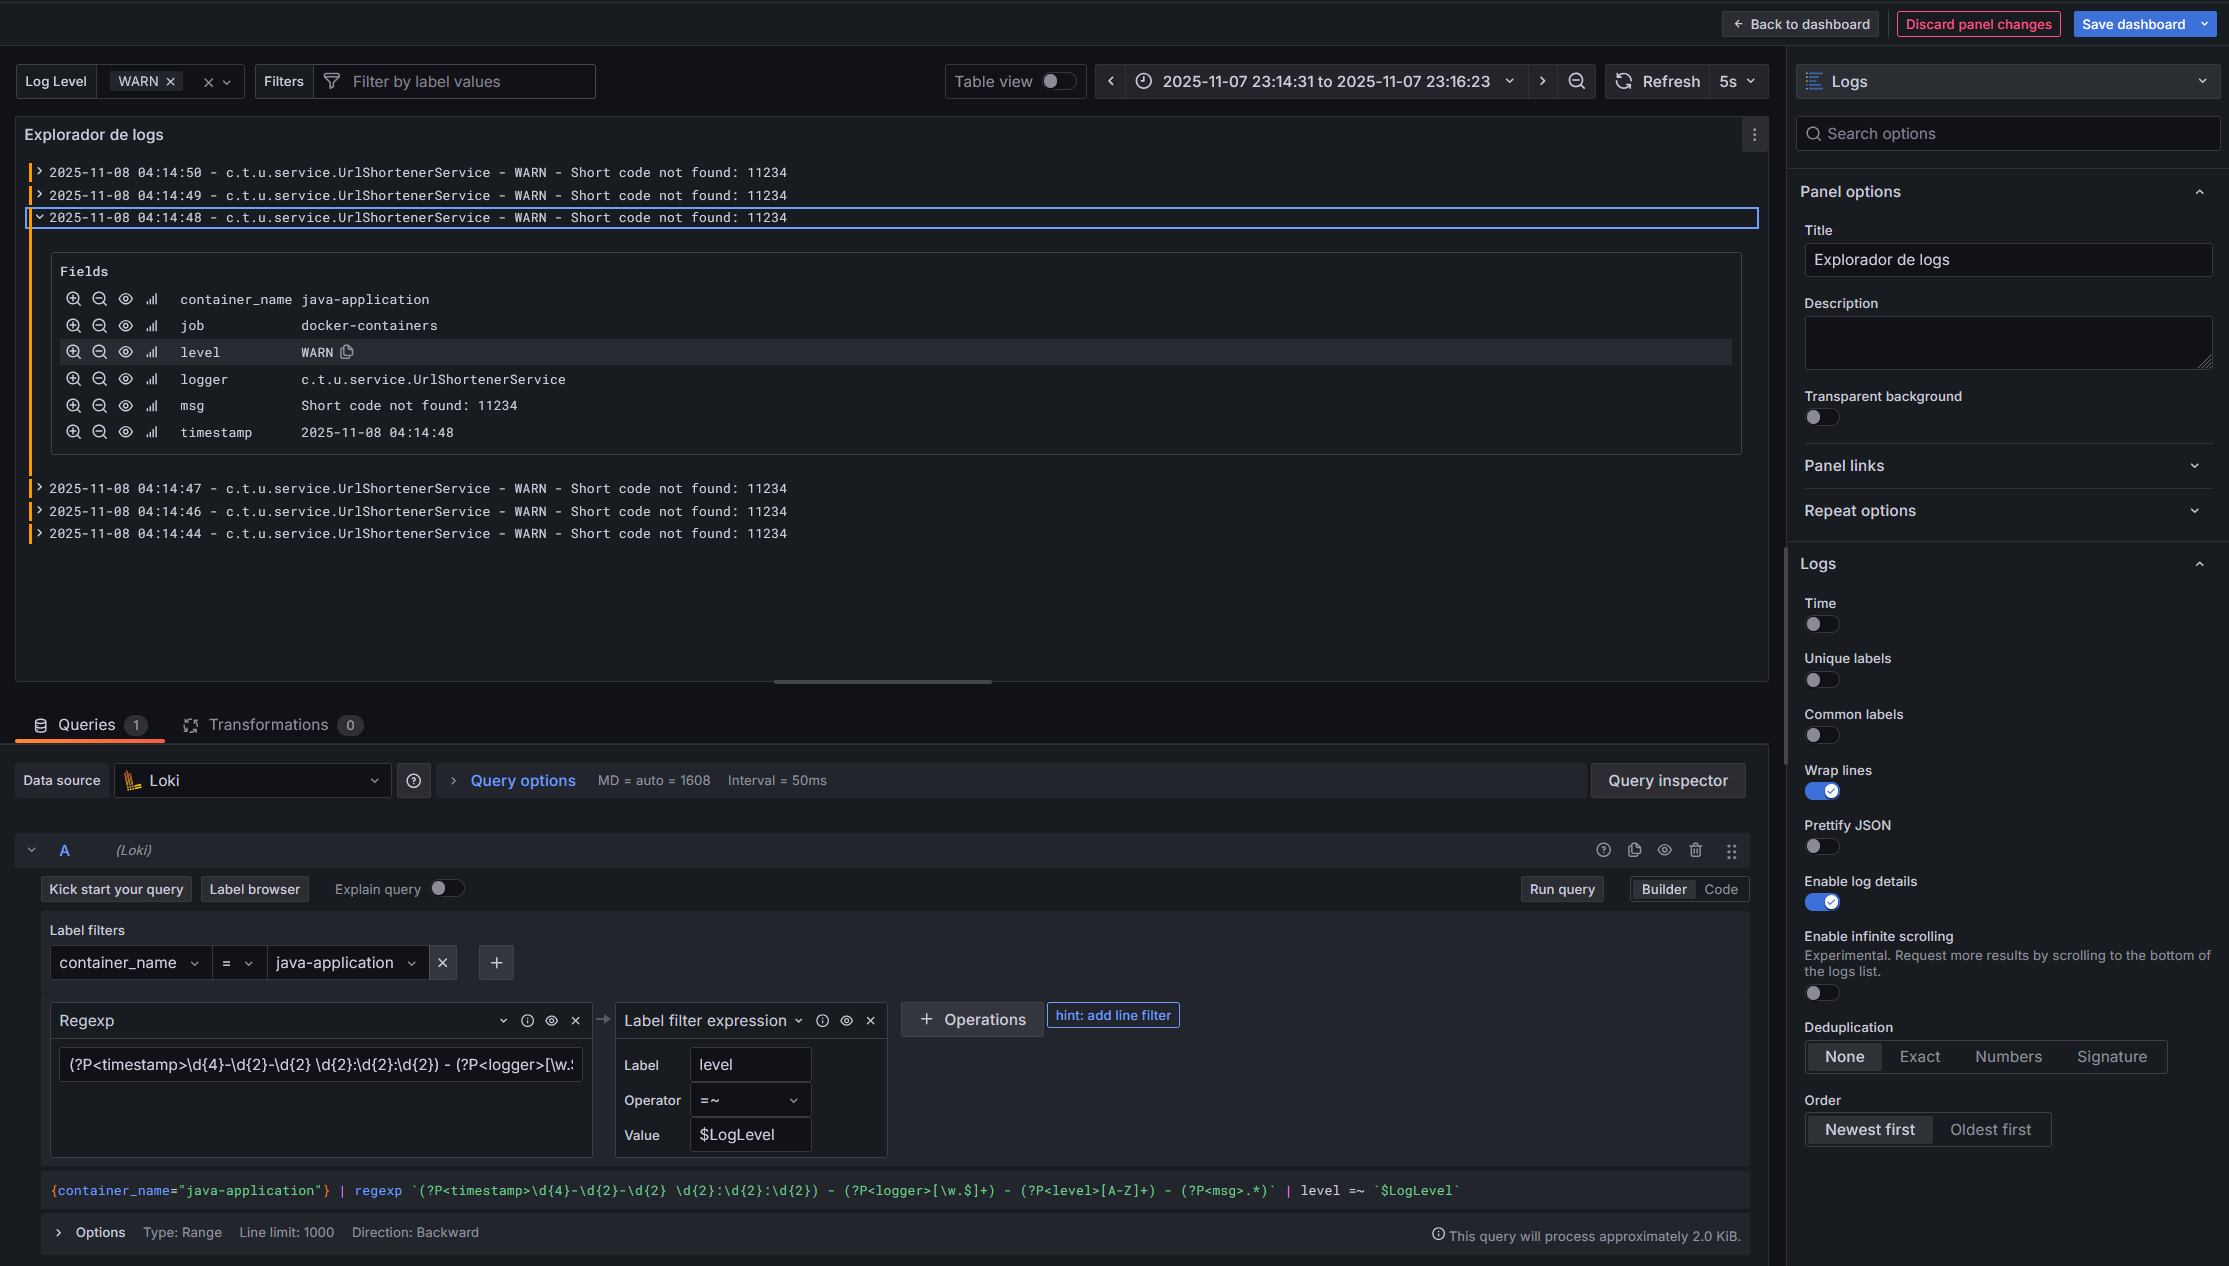
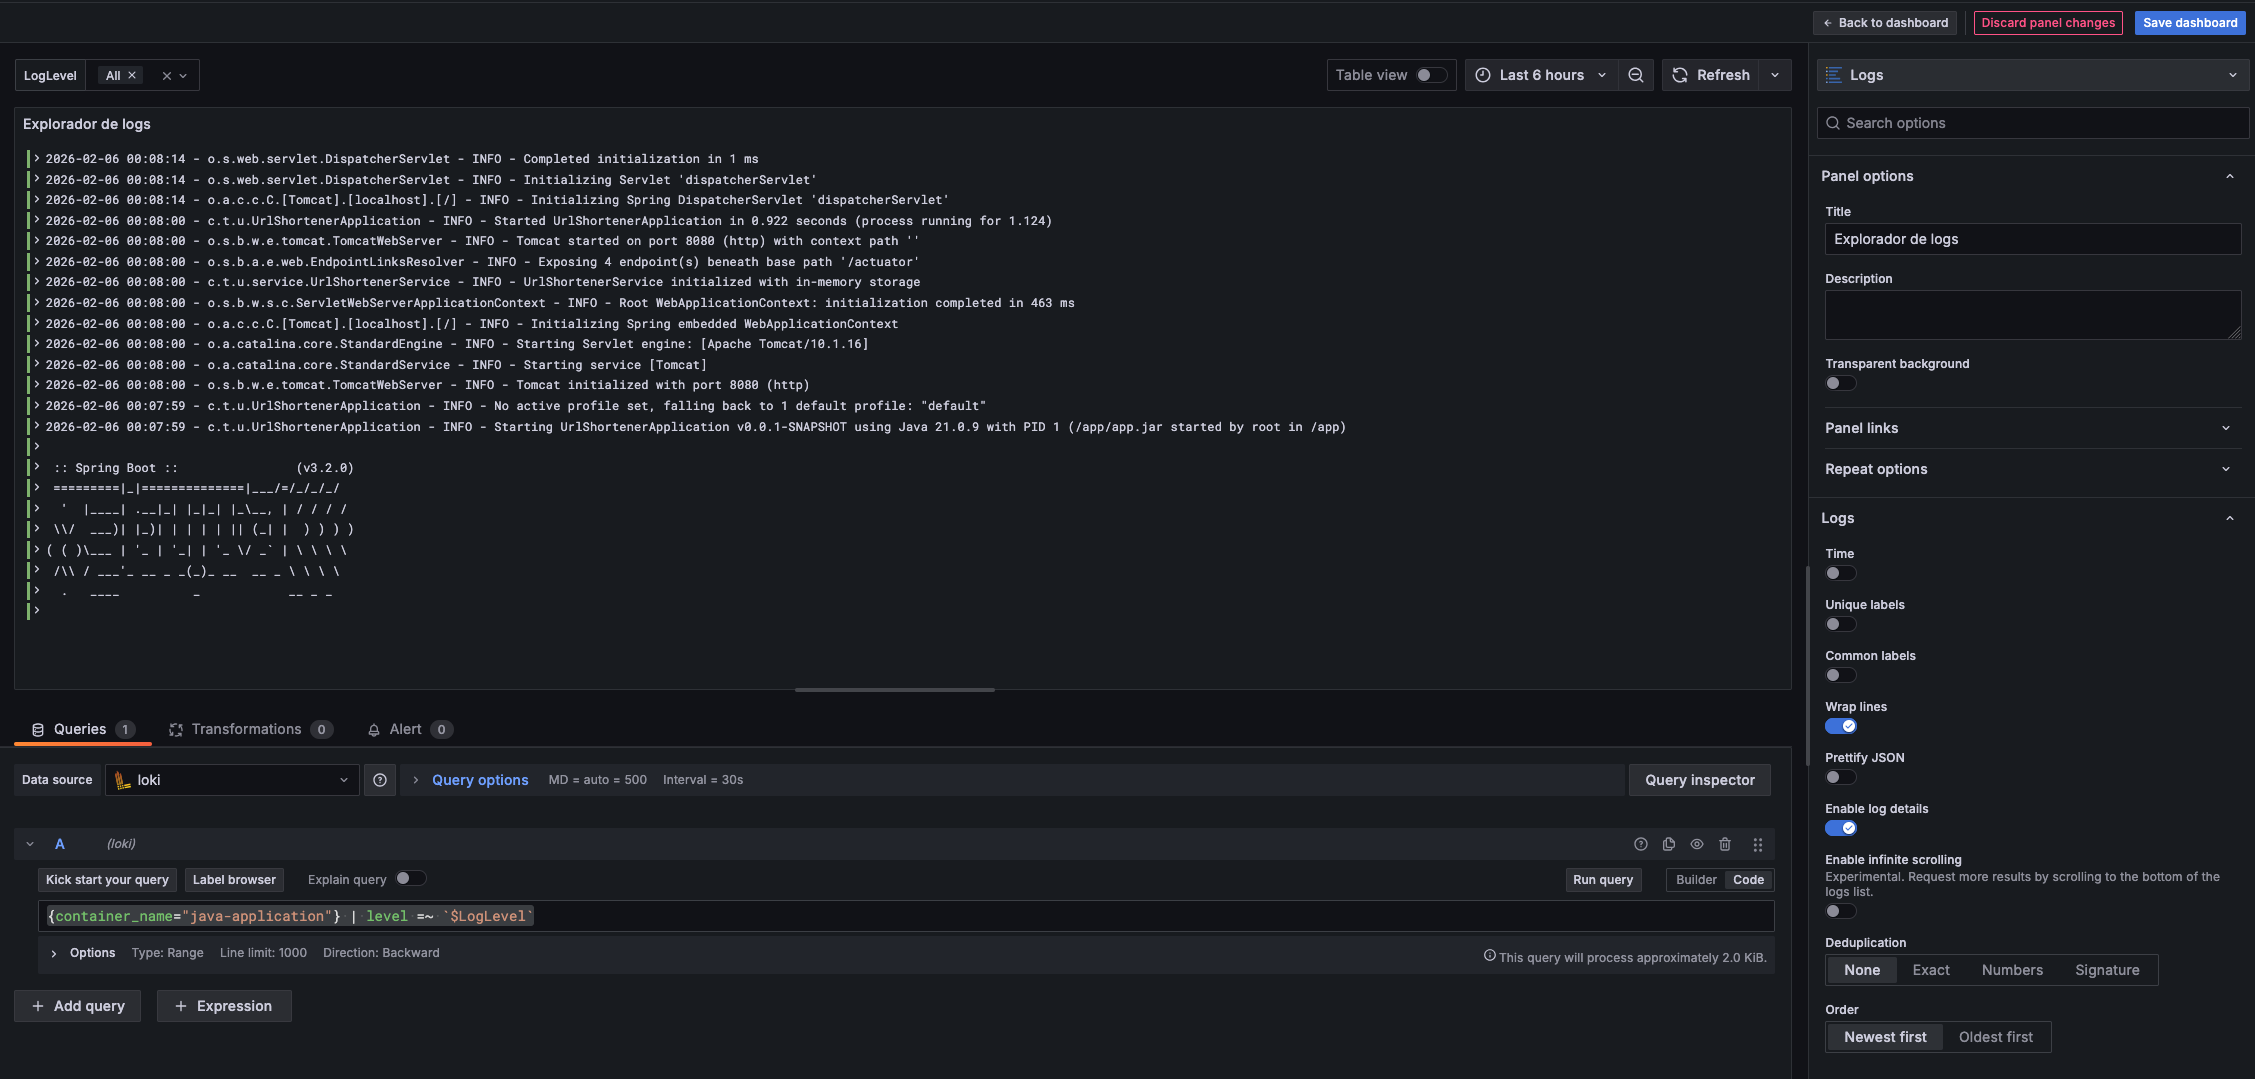
fixing loki query and variable

diff --git a/docs/3-grafana-dashboard-base.md b/docs/3-grafana-dashboard-base.md
@@ -239,7 +239,7 @@ Observar los **logs generados por la aplicación Java** en tiempo real, filtrarl
 | **Name** | `LogLevel` |
 | **Label** | `LogLevel` |
 | **Type** | `Custom` |
-| **Values separated by commas** | `INFO, WARN, ERROR` |
+| **Values separated by commas** | `info, warn, error` |
 | **Include All option** | ✅ Activado |
 | **Multi-value** | ✅ Activado |
 
@@ -254,9 +254,7 @@ Esta variable permitirá filtrar dinámicamente el nivel de logs visualizado des
 2. En el campo de consulta, escribe la siguiente **query LogQL**:
 
 ```logql
-{container_name="java-application"} 
-| regexp `(?P<timestamp>\d{4}-\d{2}-\d{2} \d{2}:\d{2}:\d{2}) - (?P<logger>[\w.$]+) - (?P<level>[A-Z]+) - (?P<msg>.*)` 
-| level =~ `$LogLevel`
+{container_name="java-application"} | level =~ `$LogLevel`
 ```
 
 #### Interpretación de la consulta:**
@@ -273,15 +271,12 @@ y filtrando dinámicamente según el nivel seleccionado en $LogLevel.
 
 **Opciones recomendadas:**
 
-* Activar “Show context” (para ver líneas antes y después del evento).
-
 * Activar “Wrap lines” (para leer mensajes largos).
 
 * Ordenar por timestamp descendente.
 
 
 ![alt text](./resources/grafana-inicial/log-panel-config.png)
-
 
 
 ---
